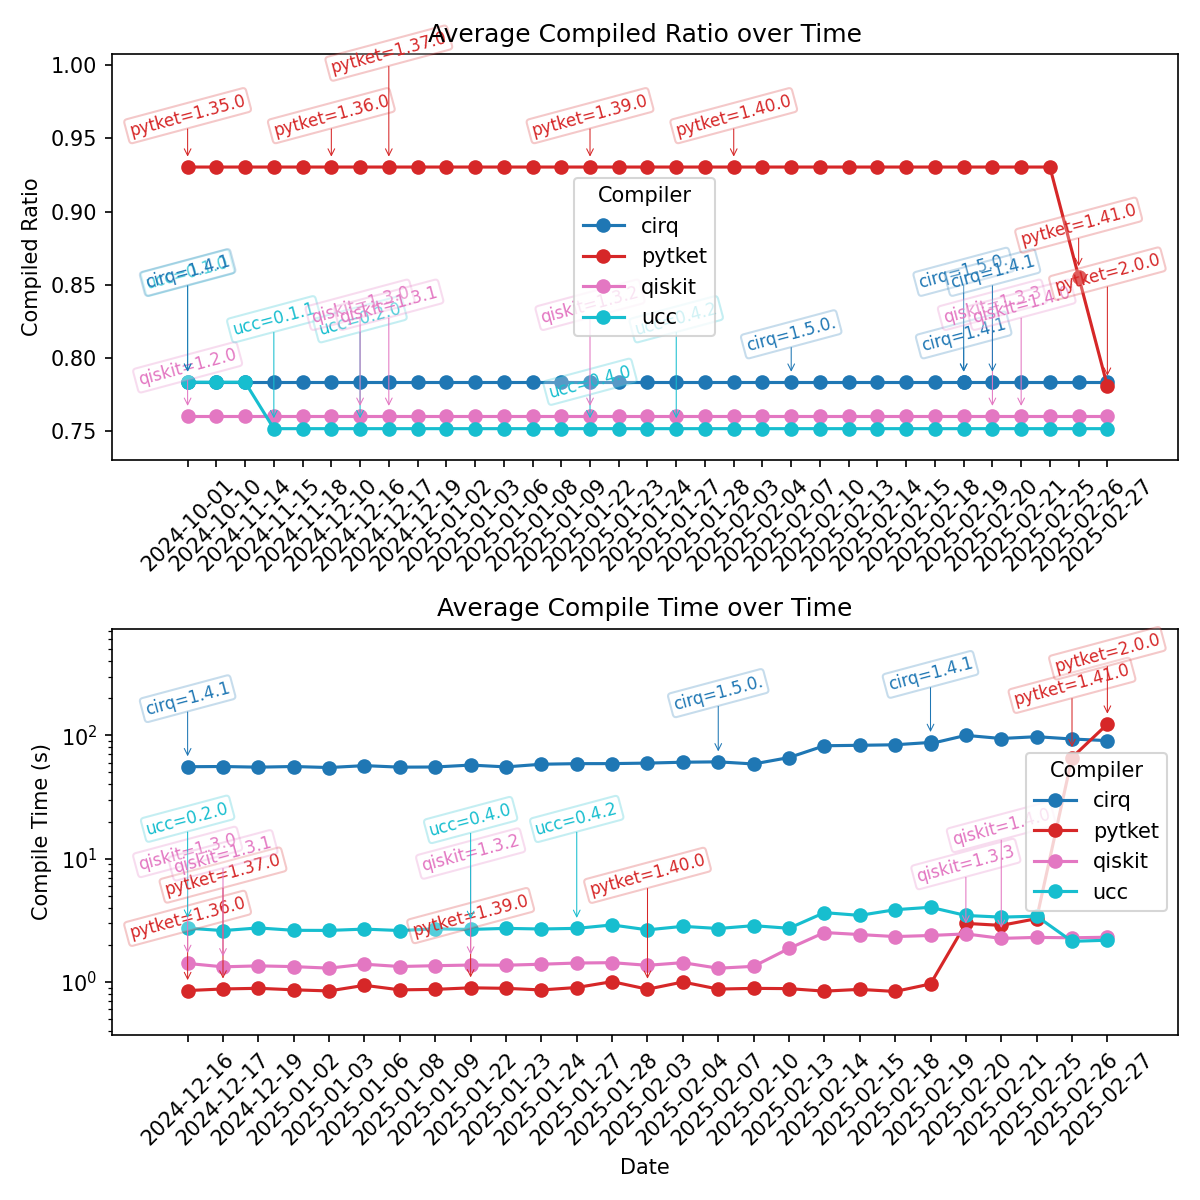
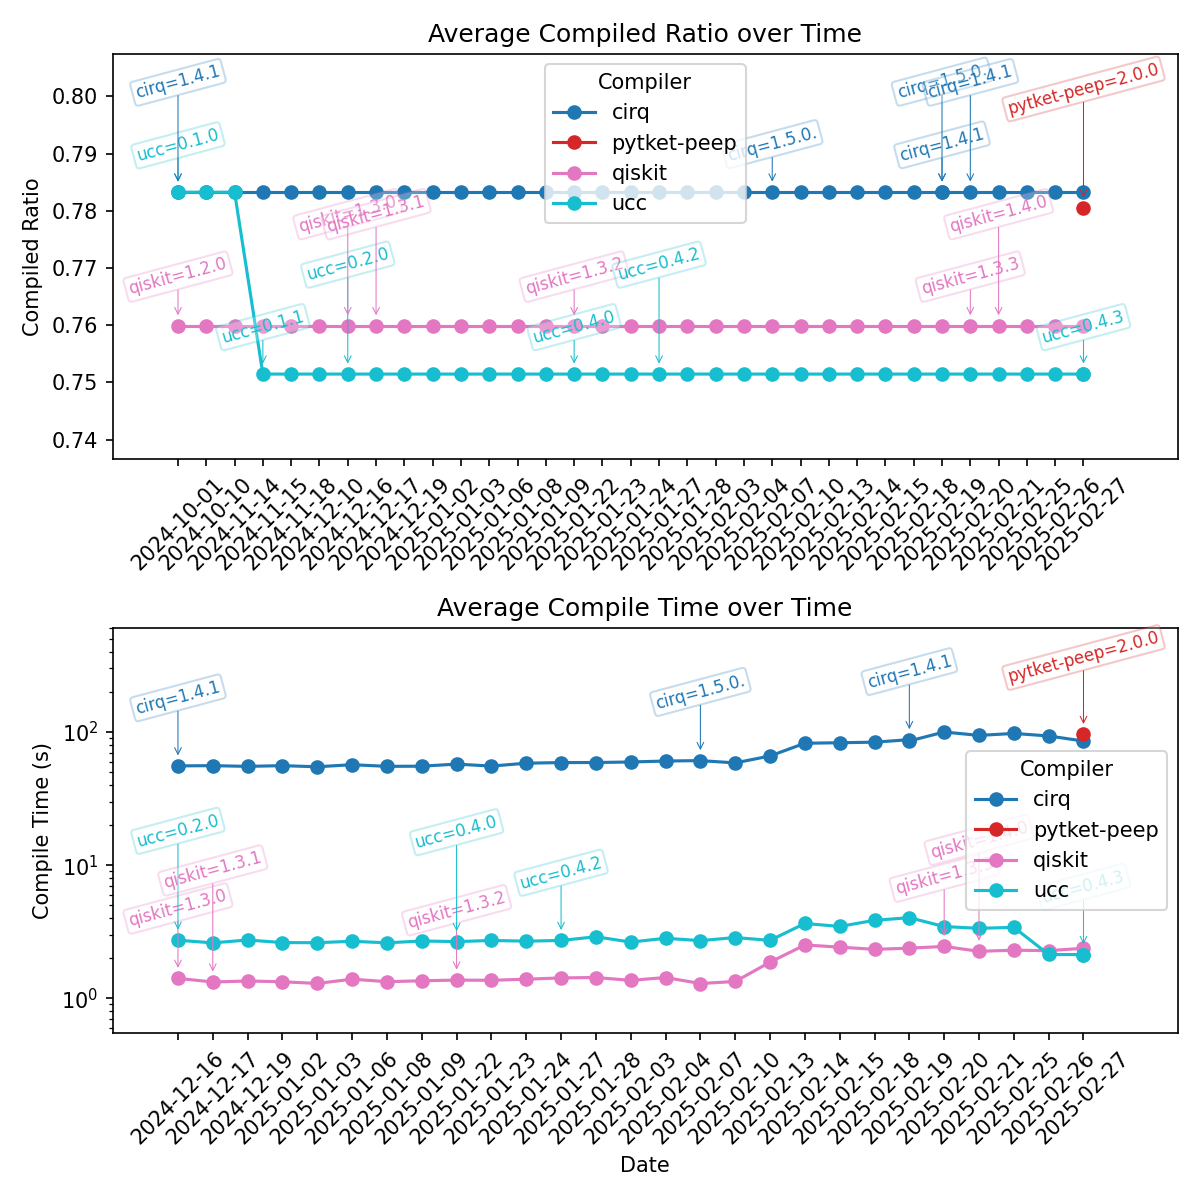
Update all references to use pytket-peep instead of pytket, remove pytket data from plots

diff --git a/benchmarks/scripts/plot_avg_benchmarks_over_time.py b/benchmarks/scripts/plot_avg_benchmarks_over_time.py
@@ -23,18 +23,28 @@ def extract_compiler_versions(header):
 
 print("Loading data files...")
 for file in csv_files:
+    compiler_versions = {}
     with open(file, "r") as f:
         header_line = f.readline().strip()
         compiler_versions = extract_compiler_versions(header_line)
+
     date_label = str(file).split("_")[1].split(".")[0]
     df = pd.read_csv(file, header=1)
+
     df["date"] = date_label
     df["compiled_ratio"] = df["compiled_multiq_gates"] / df["raw_multiq_gates"]
+    if "pytket-peep" in df["compiler"].unique():
+        compiler_versions["pytket-peep"] = compiler_versions["pytket"]
+        # Remove pytket from compiler_versions for this datafile
+        compiler_versions.pop("pytket")
     df["compiler_version"] = df["compiler"].map(compiler_versions)
 
     dataframes.append(df)
 
 df_dates = pd.concat(dataframes, ignore_index=True)
+
+# Remove older implementation of pytket from the data
+df_dates = df_dates[df_dates["compiler"] != "pytket"]
 
 # Find the average compiled ratio for each compiler on each date
 avg_compiled_ratio = (
@@ -92,7 +102,6 @@ for date in avg_compiled_ratio["date"].unique():
     date_data = avg_compiled_ratio[avg_compiled_ratio["date"] == date]
     # Sort date_data in order of compiled_ratio
     date_data = date_data.sort_values("compiled_ratio")
-    # print('Date data for \n', date, date_data, '\n')
     # Now iterate over each compiler entry and annotate if it's a new version
     for _, row in date_data.iterrows():
         # Get the version for this date
@@ -121,7 +130,7 @@ for date in avg_compiled_ratio["date"].unique():
             # Update the last seen version for this compiler
             last_version_seen[compiler] = current_version
     # previous_bboxes = [] # Reset previous bboxes for next date
-adjust_axes_to_fit_labels(ax[0], x_scale=1.01, y_scale=1.05)
+adjust_axes_to_fit_labels(ax[0], x_scale=1.01, y_scale=1.3)
 # Set y axis range to be slightly larger than data range
 
 ax[0].set_title("Average Compiled Ratio over Time")
@@ -188,7 +197,7 @@ ax[1].set_ylabel("Compile Time (s)")
 ax[1].set_xlabel("Date")
 ax[1].set_yscale("log")
 ax[1].legend(title="Compiler")
-adjust_axes_to_fit_labels(ax[1], x_scale=1.01, y_scale=1.75, y_log=True)
+adjust_axes_to_fit_labels(ax[1], x_scale=1.01, y_scale=1.9, y_log=True)
 
 plt.xticks(rotation=45)
 plt.tight_layout()

diff --git a/benchmarks/scripts/expval_benchmark.py b/benchmarks/scripts/expval_benchmark.py
@@ -13,7 +13,7 @@ import numpy as np
 
 from common import (
     cirq_compile,
-    pytket_compile,
+    pytket_peep_compile,
     qiskit_compile,
     save_results,
     get_native_rep,
@@ -46,13 +46,13 @@ def compile_for_simulation(
             ucc_compiled.save_density_matrix()
             return ucc_compiled
 
-        case "pytket":
-            pytket_compiled = pytket.qasm.circuit_to_qasm_str(
-                pytket_compile(circuit)
+        case "pytket-peep":
+            pytket_peep_compiled = pytket.qasm.circuit_to_qasm_str(
+                pytket_peep_compile(circuit)
             )
-            pytket_compiled_qiskit = qasm2.loads(pytket_compiled)
-            pytket_compiled_qiskit.save_density_matrix()
-            return pytket_compiled_qiskit
+            pytket_peep_compiled_qiskit = qasm2.loads(pytket_peep_compiled)
+            pytket_peep_compiled_qiskit.save_density_matrix()
+            return pytket_peep_compiled_qiskit
 
         case "qiskit":
             qiskit_compiled = qiskit_compile(circuit)

diff --git a/benchmarks/scripts/common.py b/benchmarks/scripts/common.py
@@ -78,7 +78,7 @@ def get_native_rep(qasm_string, compiler_alias):
     if compiler_alias == "ucc":
         # Qiskit used for UCC to get raw gate counts
         native_circuit = translate(qasm_string, "qiskit")
-    if compiler_alias == "pytket-peep":
+    elif compiler_alias == "pytket-peep":
         native_circuit = translate(qasm_string, "pytket")
     else:
         native_circuit = translate(qasm_string, compiler_alias)
